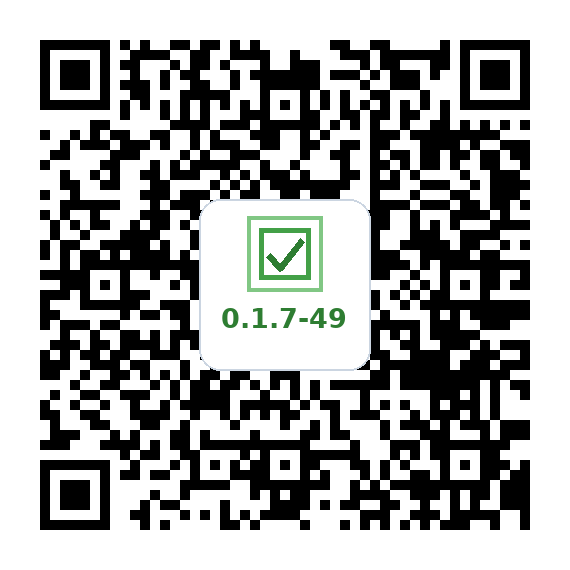
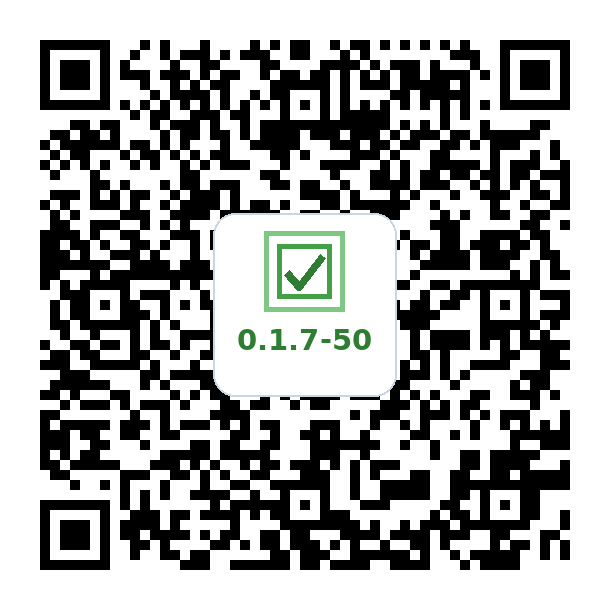
deploy: ae7d99067e6d0344444b00d913c29276aa2be2bd

diff --git a/index.html b/index.html
@@ -209,11 +209,11 @@
           </div>
             <div class="qr-container">
             <div class="qr-label">background-tasking</div>
-            <img src="qr.png" alt="MicroTasking APK QR Code (v0.1.7-49)">
+            <img src="qr.png" alt="MicroTasking APK QR Code (v0.1.7-50)">
             <br>
-            <a href="https://github.com/vemcg/MicroTasking/releases/download/dev/MicroTasking-dev.apk" class="btn" target="_blank" rel="noopener">Download MicroTasking APK (v0.1.7-49)</a>
+            <a href="https://github.com/vemcg/MicroTasking/releases/download/v0.1.7-50/MicroTasking-v0.1.7-50.apk" class="btn" target="_blank" rel="noopener">Download MicroTasking APK (v0.1.7-50)</a>
             <br>
-            <a href="https://github.com/vemcg/MicroTasking/releases/download/dev/MicroTasking-dev.apk" target="_blank" rel="noopener">Open the download again</a>
+            <a href="https://github.com/vemcg/MicroTasking/releases/download/v0.1.7-50/MicroTasking-v0.1.7-50.apk" target="_blank" rel="noopener">Open the download again</a>
           </div>
           </div>
         </li>
